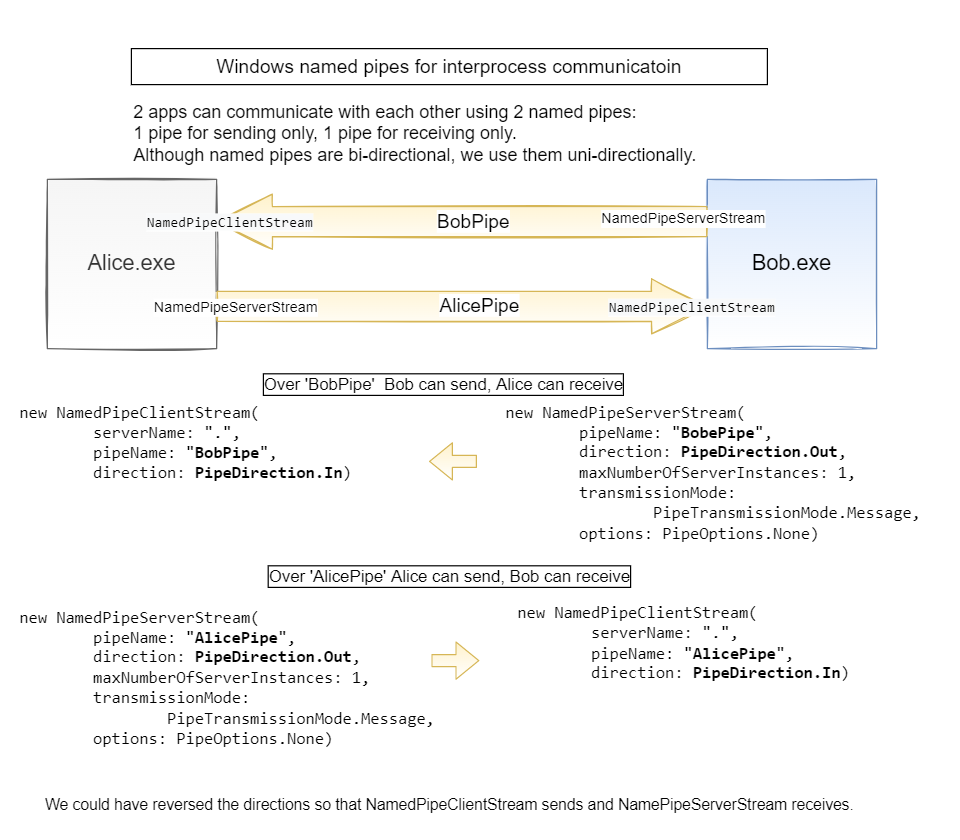
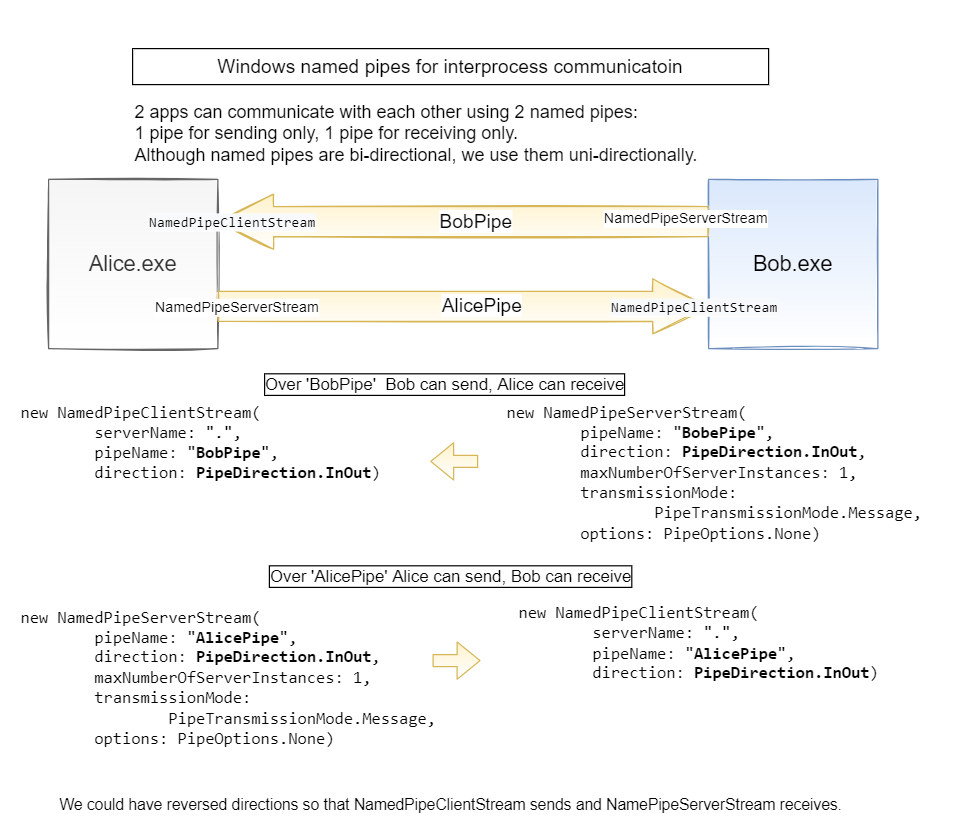
bug fixed, readme and diagram

diff --git a/src/NamedPipeLib/NamedPipeConnection.cs b/src/NamedPipeLib/NamedPipeConnection.cs
@@ -8,11 +8,15 @@ public class NamedPipeConnection : IDisposable
     private readonly string _myName;
     private readonly string _partnerName;
     private bool _connectionToPartnerEstablashed = false;
-    NamedPipeClientStream _in;
-    NamedPipeServerStream _out;
+    NamedPipeClientStream _inPipe;
+    NamedPipeServerStream _outPipe;
     CancellationTokenSource _cancellationTokenSource;
     object _lock = new object();
 
+    /// <summary>
+    /// Automatically re-connect after partner disconnects?
+    /// </summary>
+    public bool AutoReconnect { get; set; } = true;
 
     public event EventHandler<string> Connecting;
 
@@ -34,12 +38,12 @@ public class NamedPipeConnection : IDisposable
     {
         this._myName = myName;
         this._partnerName = partnerName;
-        _cancellationTokenSource = new CancellationTokenSource();
     }
 
 
     public void Connect()
     {
+        _cancellationTokenSource = new CancellationTokenSource();
         Connecting?.Invoke(this, $"{_myName} starts connecting...");
         _connectionToPartnerEstablashed = false;
         _ = Task.Run(ConnectAsServer);
@@ -51,16 +55,15 @@ public class NamedPipeConnection : IDisposable
     {
         try
         {
-            _out = new NamedPipeServerStream(
+            _outPipe = new NamedPipeServerStream(
                pipeName: _myName,
-               direction: PipeDirection.Out,
-               maxNumberOfServerInstances: 1,
+               direction: PipeDirection.InOut,
+               maxNumberOfServerInstances: 2,
                transmissionMode: PipeTransmissionMode.Message,
                options: PipeOptions.None);
-            await _out.WaitForConnectionAsync(_cancellationTokenSource.Token);
+            await _outPipe.WaitForConnectionAsync(_cancellationTokenSource.Token);
             Connecting?.Invoke(this, "Server pipe accepted connection from client.");
-            FireConnectedEvent();
-            _ = Task.Run(ReadUntilDisconnected);
+            FireConnectedEvent();          
         }
         catch (Exception ex)
         {
@@ -73,14 +76,15 @@ public class NamedPipeConnection : IDisposable
     {
         try
         {
-            _in = new NamedPipeClientStream(
+            _inPipe = new NamedPipeClientStream(
                 serverName: ".",
                 pipeName: _partnerName,
-                direction: PipeDirection.In);
-            await _in.ConnectAsync(_cancellationTokenSource.Token);
-            _in.ReadMode = PipeTransmissionMode.Message;
+                direction: PipeDirection.InOut);
+            await _inPipe.ConnectAsync(_cancellationTokenSource.Token);
+            _inPipe.ReadMode = PipeTransmissionMode.Message;            
             Connecting?.Invoke(this, "Client pipe connected to server pipe.");
             FireConnectedEvent();
+            _ = Task.Run(ReadUntilDisconnected);
         }
         catch (Exception ex)
         {
@@ -92,7 +96,7 @@ public class NamedPipeConnection : IDisposable
     {
         lock (_lock)
         {
-            if (!_connectionToPartnerEstablashed)
+            if (!_connectionToPartnerEstablashed && (_inPipe?.IsConnected ?? false) && (_outPipe?.IsConnected ?? false))
             {
                 Connected?.Invoke(this, $"Connection to '{_partnerName}' established.");
                 _connectionToPartnerEstablashed = true;
@@ -112,7 +116,7 @@ public class NamedPipeConnection : IDisposable
         try
         {
             byte[] msg = Encoding.UTF8.GetBytes(message);
-            await _out.WriteAsync(msg, _cancellationTokenSource.Token);
+            await _outPipe.WriteAsync(msg, _cancellationTokenSource.Token);
         }
         catch (Exception ex)
         {
@@ -129,21 +133,23 @@ public class NamedPipeConnection : IDisposable
             while (true)
             {
                 string message = Encoding.UTF8.GetString(await ReadMessage());
-                if (_in.IsConnected)
+                if (_inPipe.IsConnected)
                     OnNewMessage?.Invoke(this, message);
                 else
-                {
-                    await _out.DisposeAsync();
-                    await _in.DisposeAsync();
+                {                   
+                    await _outPipe.DisposeAsync();
+                    await _inPipe.DisposeAsync();
                     Disconnected?.Invoke(this, _partnerName);
+                    if(AutoReconnect && !_cancellationTokenSource.IsCancellationRequested) 
+                        _ = Task.Run(Connect);
                     break;
                 }
             }
         }
         catch (Exception ex)
         {
-            await _out.DisposeAsync();
-            await _in.DisposeAsync();
+            await _outPipe.DisposeAsync();
+            await _inPipe.DisposeAsync();
             Disconnected?.Invoke(this, ex.ToString());
         }
     }
@@ -155,9 +161,9 @@ public class NamedPipeConnection : IDisposable
         byte[] buffer = new byte[0x1000]; // Read in 4 KB blocks
         do
         {
-            ms.Write(buffer, 0, await _in.ReadAsync(buffer, 0, buffer.Length, _cancellationTokenSource.Token));
+            ms.Write(buffer, 0, await _inPipe.ReadAsync(buffer, 0, buffer.Length, _cancellationTokenSource.Token));
         }
-        while (!_in.IsMessageComplete);
+        while (!_inPipe.IsMessageComplete);
         return ms.ToArray();
     }
 
@@ -165,7 +171,7 @@ public class NamedPipeConnection : IDisposable
 
     public void Dispose()
     {
-        _in?.Dispose();
-        _out?.Dispose();
+        _inPipe?.Dispose();
+        _outPipe?.Dispose();
     }
 }

diff --git a/src/Alice/Form1.cs b/src/Alice/Form1.cs
@@ -24,9 +24,19 @@ public partial class Form1 : Form
         _pipe.OnError += _namedPipeServer_OnError;
         _pipe.Disconnected += _namedPipePeer_Disconnected;
         _pipe.OnNewMessage += _namedPipePeer_OnNewMessage;
+        _pipe.Connecting += _pipe_Connecting;
         _pipe.Connect();
     }
 
+    private void _pipe_Connecting(object? sender, string msg)
+    {
+        Invoke(() =>
+        {
+            textBoxMessages.AppendText($"Connecting: ");
+            textBoxMessages.AppendText(msg);
+            textBoxMessages.AppendText(NL);
+        });
+    }
 
     private void _namedPipePeer_OnNewMessage(object? sender, string msg)
     {
@@ -44,7 +54,6 @@ public partial class Form1 : Form
         {
             textBoxMessages.AppendText($"{_partnerName} disconnected");
             textBoxMessages.AppendText(NL);
-            _pipe.Connect();
         });
     }
 

diff --git a/src/Alice/Form1.Designer.cs b/src/Alice/Form1.Designer.cs
@@ -61,6 +61,7 @@ partial class Form1
             this.textBoxMessages.Multiline = true;
             this.textBoxMessages.Name = "textBoxMessages";
             this.textBoxMessages.ReadOnly = true;
+            this.textBoxMessages.ScrollBars = System.Windows.Forms.ScrollBars.Vertical;
             this.textBoxMessages.Size = new System.Drawing.Size(432, 317);
             this.textBoxMessages.TabIndex = 2;
             // 

diff --git a/src/Bob/Program.cs b/src/Bob/Program.cs
@@ -8,14 +8,12 @@ pipe.Connected += (_, msg) => Console.WriteLine(msg);
 pipe.Disconnected += (_, msg) =>
 {
     Console.WriteLine($"{partnerName} disconnected");
-    pipe.Connect();
 };
 pipe.Connect();
 Console.CancelKeyPress += Console_CancelKeyPress;
 
 while (!cancel)
-{
-    Console.WriteLine($"Type your message to {partnerName}:");
+{   
     string line =  Console.ReadLine();
     if (line.StartsWith("exit"))
     {

diff --git a/ReadMe.md b/ReadMe.md
@@ -37,3 +37,5 @@ In VS, click on `Start without Debugging`.
 Type some text in one of the apps and see your message appear
 instantly in the other app.
 
+Try to restart one app; the connection should be established after restart.
+
